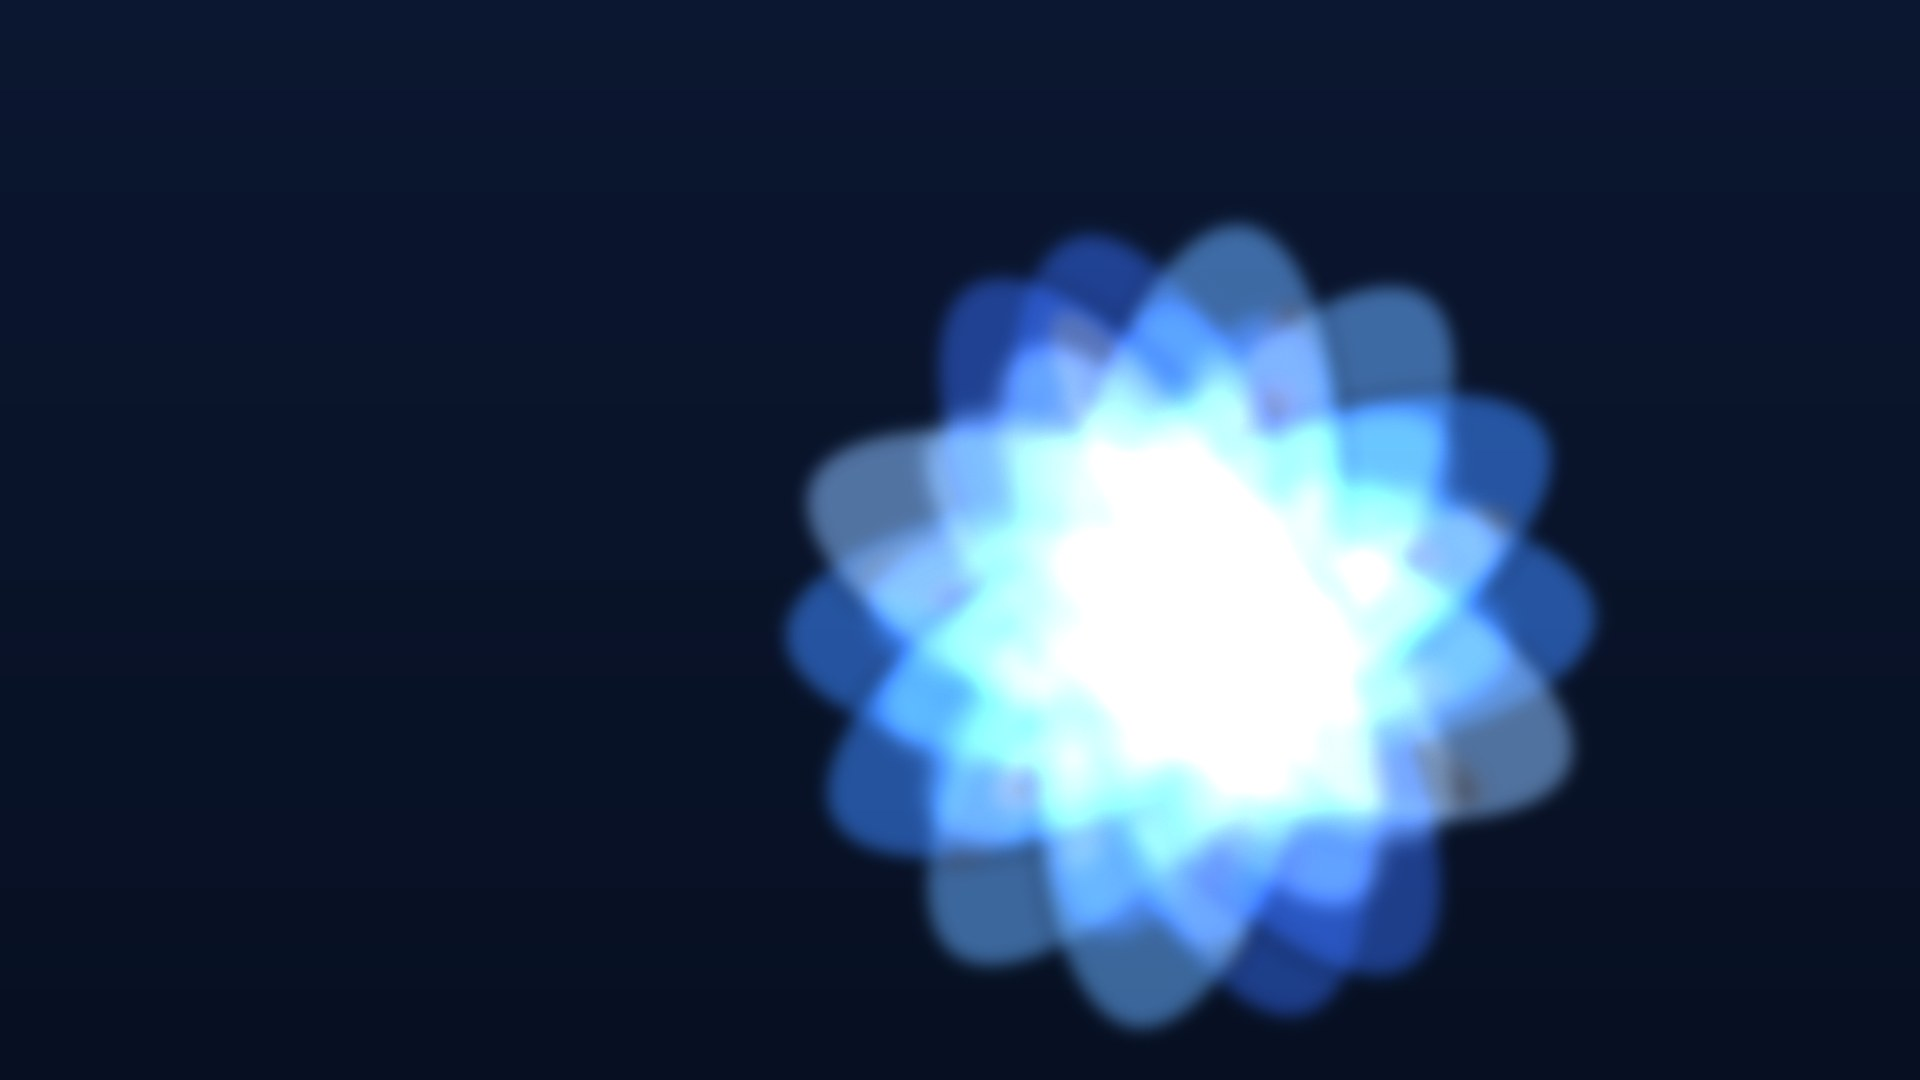
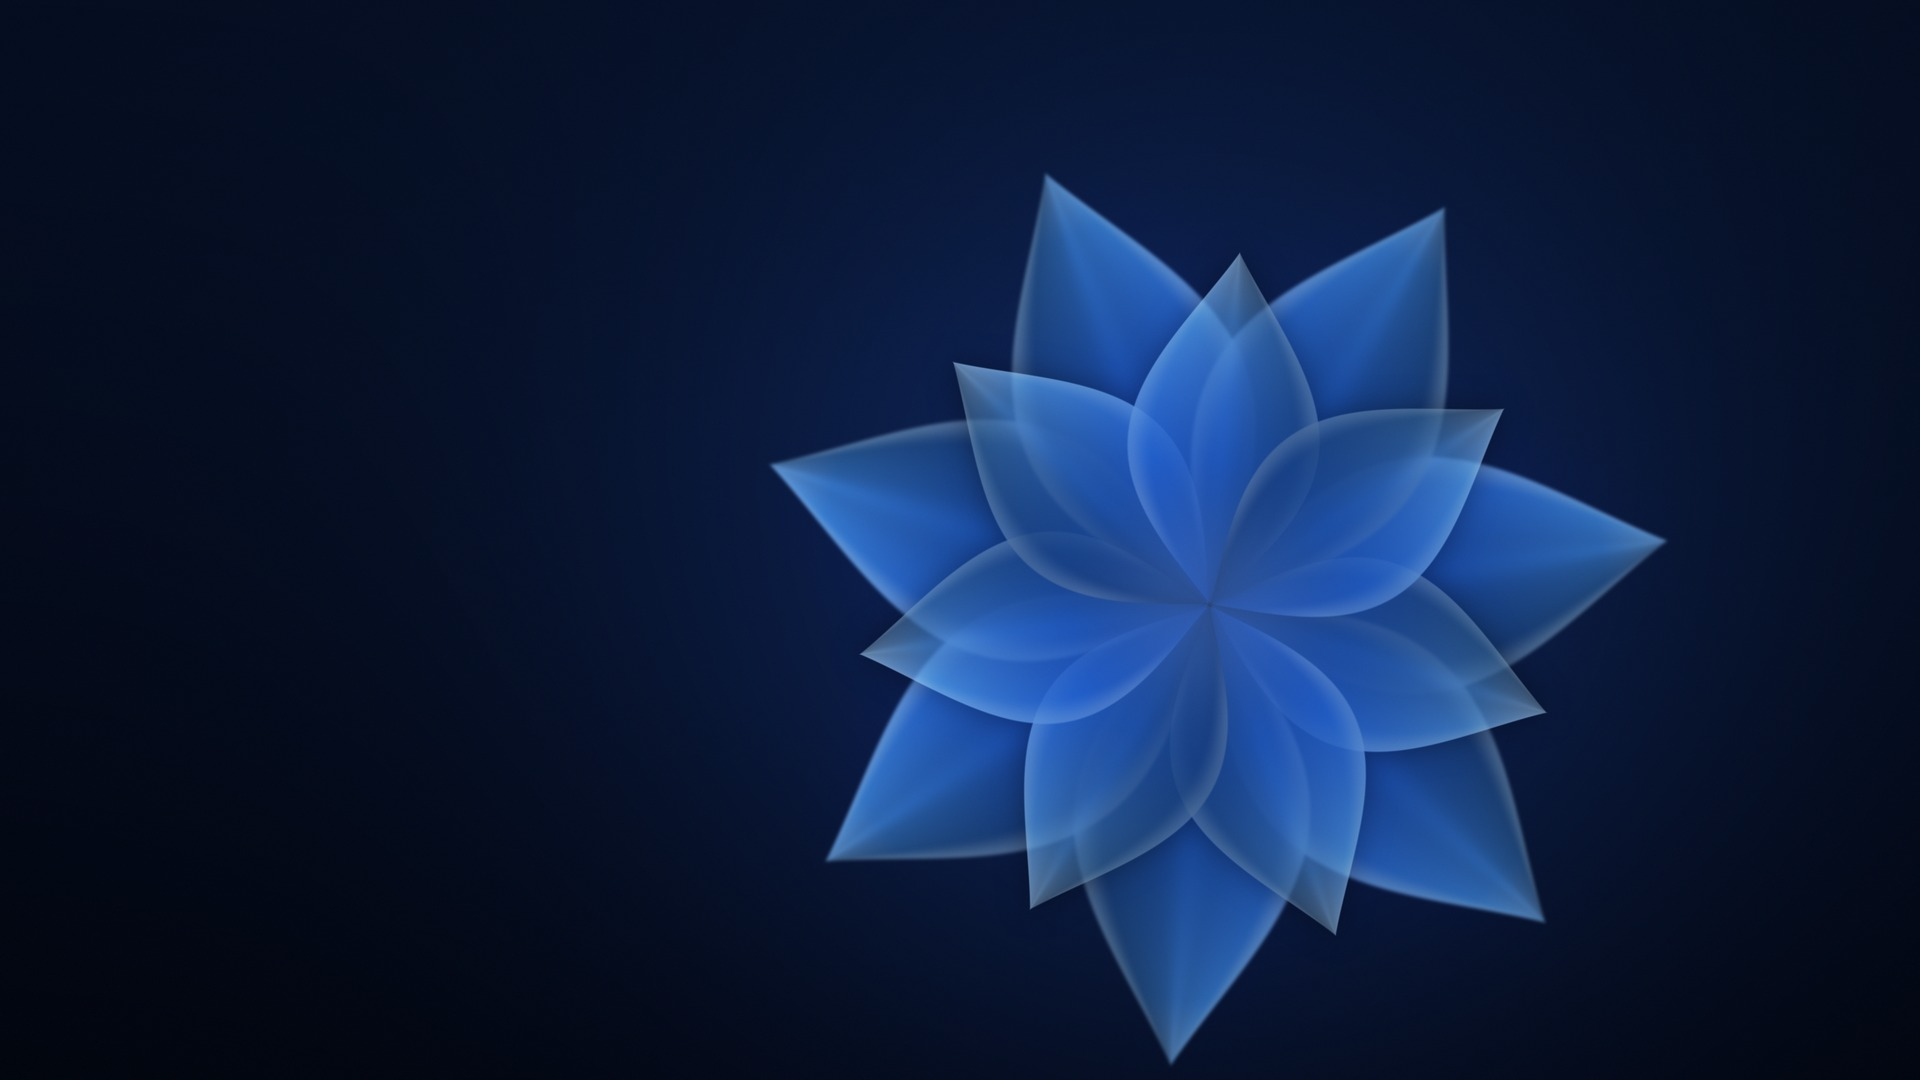
Fluent: a new bloom
The old bloom was flat overlapping ellipses with a blown-out centre.
tools/make-fluent-bloom.py (Pillow and numpy) renders an original one
at twice the size: two rings of teardrop petals, each running deep blue
at its base to pale at its tip and shaded like a folded ribbon (lit on
one side, in shadow on the other, its rim catching the light), the
front ring casting a soft shadow on the back one, a gentle glow, and a
highlight knee so nothing clips; then a vignette and dither against
banding. make-theme-art.py defers to it, as it does for the rain.

Changed region(s): [[0.4062, 0.1528, 0.875, 0.9778]]

diff --git a/tools/make-fluent-bloom.py b/tools/make-fluent-bloom.py
@@ -1,0 +1,150 @@
+"""Renders Fluent's backdrop, assets/theme-art/fluent-bloom.jpg: an original bloom of folded translucent petals.
+
+Two rings of petals around a centre, each petal a teardrop shaded like a folded ribbon (lit on one side, in shadow on
+the other, its rim catching the light) and running deep blue at its base to pale at its tip, the front ring casting a
+soft shadow on the back one. A gentle glow and a soft shoulder keep the centre from blowing out to white. Drawn at
+twice the size and scaled down, with a little dither against banding.
+Needs Pillow and numpy. Usage: python tools/make-fluent-bloom.py [out.jpg]
+"""
+import math
+import os
+import sys
+
+import numpy as np
+from PIL import Image, ImageFilter
+
+W, H = 1920, 1080
+S = 2  # supersampling
+OUT = os.path.normpath(os.path.join(os.path.dirname(os.path.abspath(__file__)), '..', 'assets', 'theme-art', 'fluent-bloom.jpg'))
+
+
+def rgb(h):
+    h = h.lstrip('#')
+    return np.array([int(h[i:i + 2], 16) / 255.0 for i in (0, 2, 4)], dtype=np.float32)
+
+
+def smooth(e0, e1, x):
+    t = np.clip((x - e0) / (e1 - e0), 0.0, 1.0)
+    return t * t * (3 - 2 * t)
+
+
+def ramp(t, stops):
+    """Colour along t (0..1) through (offset, colour) stops."""
+    out = np.zeros(t.shape + (3,), dtype=np.float32)
+    for (o1, c1), (o2, c2) in zip(stops, stops[1:]):
+        m = (t >= o1) & (t <= o2)
+        f = ((t[m] - o1) / (o2 - o1))[:, None]
+        out[m] = c1 * (1 - f) + c2 * f
+    return out
+
+
+def blur(a, r):
+    """Gaussian blur of a float image (H, W) or (H, W, 3) in 0..1, through 16-bit-safe 8-bit layers."""
+    if a.ndim == 2:
+        img = Image.fromarray(np.clip(a * 255, 0, 255).astype(np.uint8), 'L')
+        return np.asarray(img.filter(ImageFilter.GaussianBlur(r)), dtype=np.float32) / 255.0
+    return np.stack([blur(a[..., i], r) for i in range(3)], axis=-1)
+
+
+def petal(canvas, alpha, cx, cy, ang, length, width, stops, opacity, twist):
+    """Composites one petal over `canvas` (H, W, 3) and adds its coverage to `alpha`."""
+    w, h = canvas.shape[1], canvas.shape[0]
+    ca, sa = math.cos(ang), math.sin(ang)
+    # Its bounding box.
+    corners = [(cx + ca * u - sa * v, cy + sa * u + ca * v) for u in (0, length) for v in (-width, width)]
+    x0 = max(0, int(min(p[0] for p in corners)) - 4)
+    x1 = min(w, int(max(p[0] for p in corners)) + 4)
+    y0 = max(0, int(min(p[1] for p in corners)) - 4)
+    y1 = min(h, int(max(p[1] for p in corners)) + 4)
+    if x1 <= x0 or y1 <= y0:
+        return
+    ys, xs = np.mgrid[y0:y1, x0:x1].astype(np.float32)
+    dx, dy = xs - cx, ys - cy
+    u = dx * ca + dy * sa
+    v = -dx * sa + dy * ca
+    t = u / length
+    # A teardrop: narrow at the base, widest a little before the middle, coming to a soft point.
+    half = width * np.power(np.clip(np.sin(np.pi * np.clip(t, 0, 1)), 0, 1), 1.05) * (1.0 - 0.38 * np.clip(t, 0, 1))
+    half = np.maximum(half, 1e-3)
+    across = v / half  # -1..1 inside
+    edge = 2.5 * S
+    cover = smooth(0, 1, (half - np.abs(v)) / edge) * smooth(0, 1, u / edge) * smooth(0, 1, (length - u) / edge)
+    if not cover.any():
+        return
+    col = ramp(np.clip(t, 0, 1), stops)
+    # Folded: one side in light, the other in shadow (the fold's side alternates petal to petal).
+    side = 0.5 + 0.5 * np.clip(across * twist, -1, 1)
+    shade = 0.58 + 0.52 * side
+    col = col * shade[..., None]
+    # The rim catches the light; a faint crease runs down the middle.
+    rim = smooth(0.72, 1.0, np.abs(across)) * smooth(0.05, 0.3, t) * 0.35
+    col = col * (1 - rim[..., None]) + rgb('#D6F0FF') * rim[..., None]
+    crease = np.exp(-(across * 6.0) ** 2) * smooth(0.1, 0.5, t) * 0.12
+    col = col * (1 + crease[..., None])
+    a = (cover * opacity)[..., None]
+    region = canvas[y0:y1, x0:x1]
+    canvas[y0:y1, x0:x1] = region * (1 - a) + col * a
+    alpha[y0:y1, x0:x1] = np.maximum(alpha[y0:y1, x0:x1], cover * opacity)
+
+
+def render():
+    w, h = W * S, H * S
+    ys, xs = np.mgrid[0:h, 0:w].astype(np.float32)
+    # The night: deep navy, a little lighter behind the bloom.
+    top, bottom = rgb('#08142E'), rgb('#040916')
+    img = top * (1 - ys / h)[..., None] + bottom * (ys / h)[..., None]
+    cx, cy = w * 0.63, h * 0.56
+    d = np.hypot(xs - cx, ys - cy) / (h * 0.75)
+    img += (rgb('#173A8A') * 0.42) * np.exp(-d * d * 2.4)[..., None]
+    del xs, ys, d
+
+    back_stops = [(0.0, rgb('#08215E')), (0.45, rgb('#1A52B8')), (0.85, rgb('#3F8BE6')), (1.0, rgb('#7DB9FA'))]
+    front_stops = [(0.0, rgb('#0E2F80')), (0.4, rgb('#2468D8')), (0.8, rgb('#5BA8F8')), (1.0, rgb('#B4DDFF'))]
+    n = 7
+    # The back ring: larger, deeper, softened a little (it's further away).
+    back = img.copy()
+    back_a = np.zeros((h, w), dtype=np.float32)
+    for k in range(n):
+        ang = math.radians(k * 360 / n - 8)
+        petal(back, back_a, cx, cy, ang, h * 0.43, h * 0.135, back_stops, 0.82, 1 if k % 2 else -1)
+    back = blur(back, 1.6 * S)
+    # The front ring's shadow on it.
+    front = back.copy()
+    front_a = np.zeros((h, w), dtype=np.float32)
+    for k in range(n):
+        ang = math.radians(k * 360 / n + 360 / n / 2 - 8)
+        petal(front, front_a, cx, cy, ang, h * 0.33, h * 0.11, front_stops, 0.78, -1 if k % 2 else 1)
+    shadow = blur(front_a, 14 * S) * 0.45
+    under = back * (1 - shadow[..., None])
+    img = under * (1 - front_a[..., None]) + front * front_a[..., None]
+    # The heart of the bloom: a soft light, not a white-out.
+    ys, xs = np.mgrid[0:h, 0:w].astype(np.float32)
+    d = np.hypot(xs - cx, ys - cy) / (h * 0.1)
+    img += (rgb('#9ED4FF') * 0.22) * np.exp(-d * d)[..., None]
+    del xs, ys, d
+    # Glow from the bright parts, then a soft shoulder (nothing clips flat).
+    bright = np.clip(img - 0.6, 0, None)
+    img = img + blur(bright, 40 * S) * 0.3
+    # A knee: everything below 0.72 as it is, the highlights rolled off.
+    k = 0.72
+    over = np.clip(img - k, 0, None)
+    img = np.minimum(img, k) + (1 - k) * (1 - np.exp(-over / (1 - k)))
+    return np.clip(img, 0, 1)
+
+
+def main():
+    out = sys.argv[1] if len(sys.argv) > 1 else OUT
+    img = render()
+    pic = Image.fromarray((img * 255).astype(np.uint8), 'RGB').resize((W, H), Image.LANCZOS)
+    a = np.asarray(pic, dtype=np.float32)
+    # A gentle vignette and dither (smooth gradients band in 8 bits).
+    ys, xs = np.mgrid[0:H, 0:W].astype(np.float32)
+    v = 1 - 0.28 * np.clip(np.hypot((xs - W / 2) / (W / 2), (ys - H / 2) / (H / 2)) - 0.35, 0, None)
+    rng = np.random.default_rng(5)
+    a = a * v[..., None] + rng.uniform(-1.2, 1.2, a.shape)
+    Image.fromarray(np.clip(a, 0, 255).astype(np.uint8), 'RGB').save(out, quality=92, optimize=True)
+    print(out)
+
+
+if __name__ == '__main__':
+    main()

diff --git a/tools/make-theme-art.py b/tools/make-theme-art.py
@@ -436,7 +436,8 @@ ART = {
                                 ['#9AD8FF', '#4FB2FF', '#FFFFFF'], 7, count=4, thickness=(40, 120), blur=(20, 60)),
     'aqua': lambda: ribbons('aqua.jpg', [(0, '#062A6E'), (0.5, '#0E5AC2'), (1, '#1B8FE8')],
                             ['#7FD4FF', '#BFEAFF', '#4FB2FF'], 13, count=5, thickness=(50, 140), blur=(26, 70)),
-    'fluent': lambda: bloom('fluent-bloom.jpg', [(0, '#0B1630'), (1, '#071022')], ['#3D8BFF', '#6FB7FF', '#2F5FD8', '#9ACBFF'], 5),
+    # Fluent's bloom is made by make-fluent-bloom.py (folded, shaded petals; needs numpy).
+    'fluent': lambda: None,
     'big-glass': lambda: save(blobs('big-glass.jpg', [(0, '#F6E9F7'), (1, '#E4EEFB')], ['#FF8FB8', '#8F9BFF', '#7FE0D8', '#FFC07A', '#C59BFF'], 9), 'big-glass.jpg'),
     'home-screen': lambda: save(bokeh(blobs('home-screen.jpg', [(0, '#3A1C71'), (0.6, '#D76D77'), (1, '#FFAF7B')],
                                             ['#FF6FA8', '#7A5CFF', '#FFB86B', '#FF8A5B'], 21, blur=120), 4, 30, ('#FFFFFF', '#FFD7E8')), 'home-screen.jpg'),
